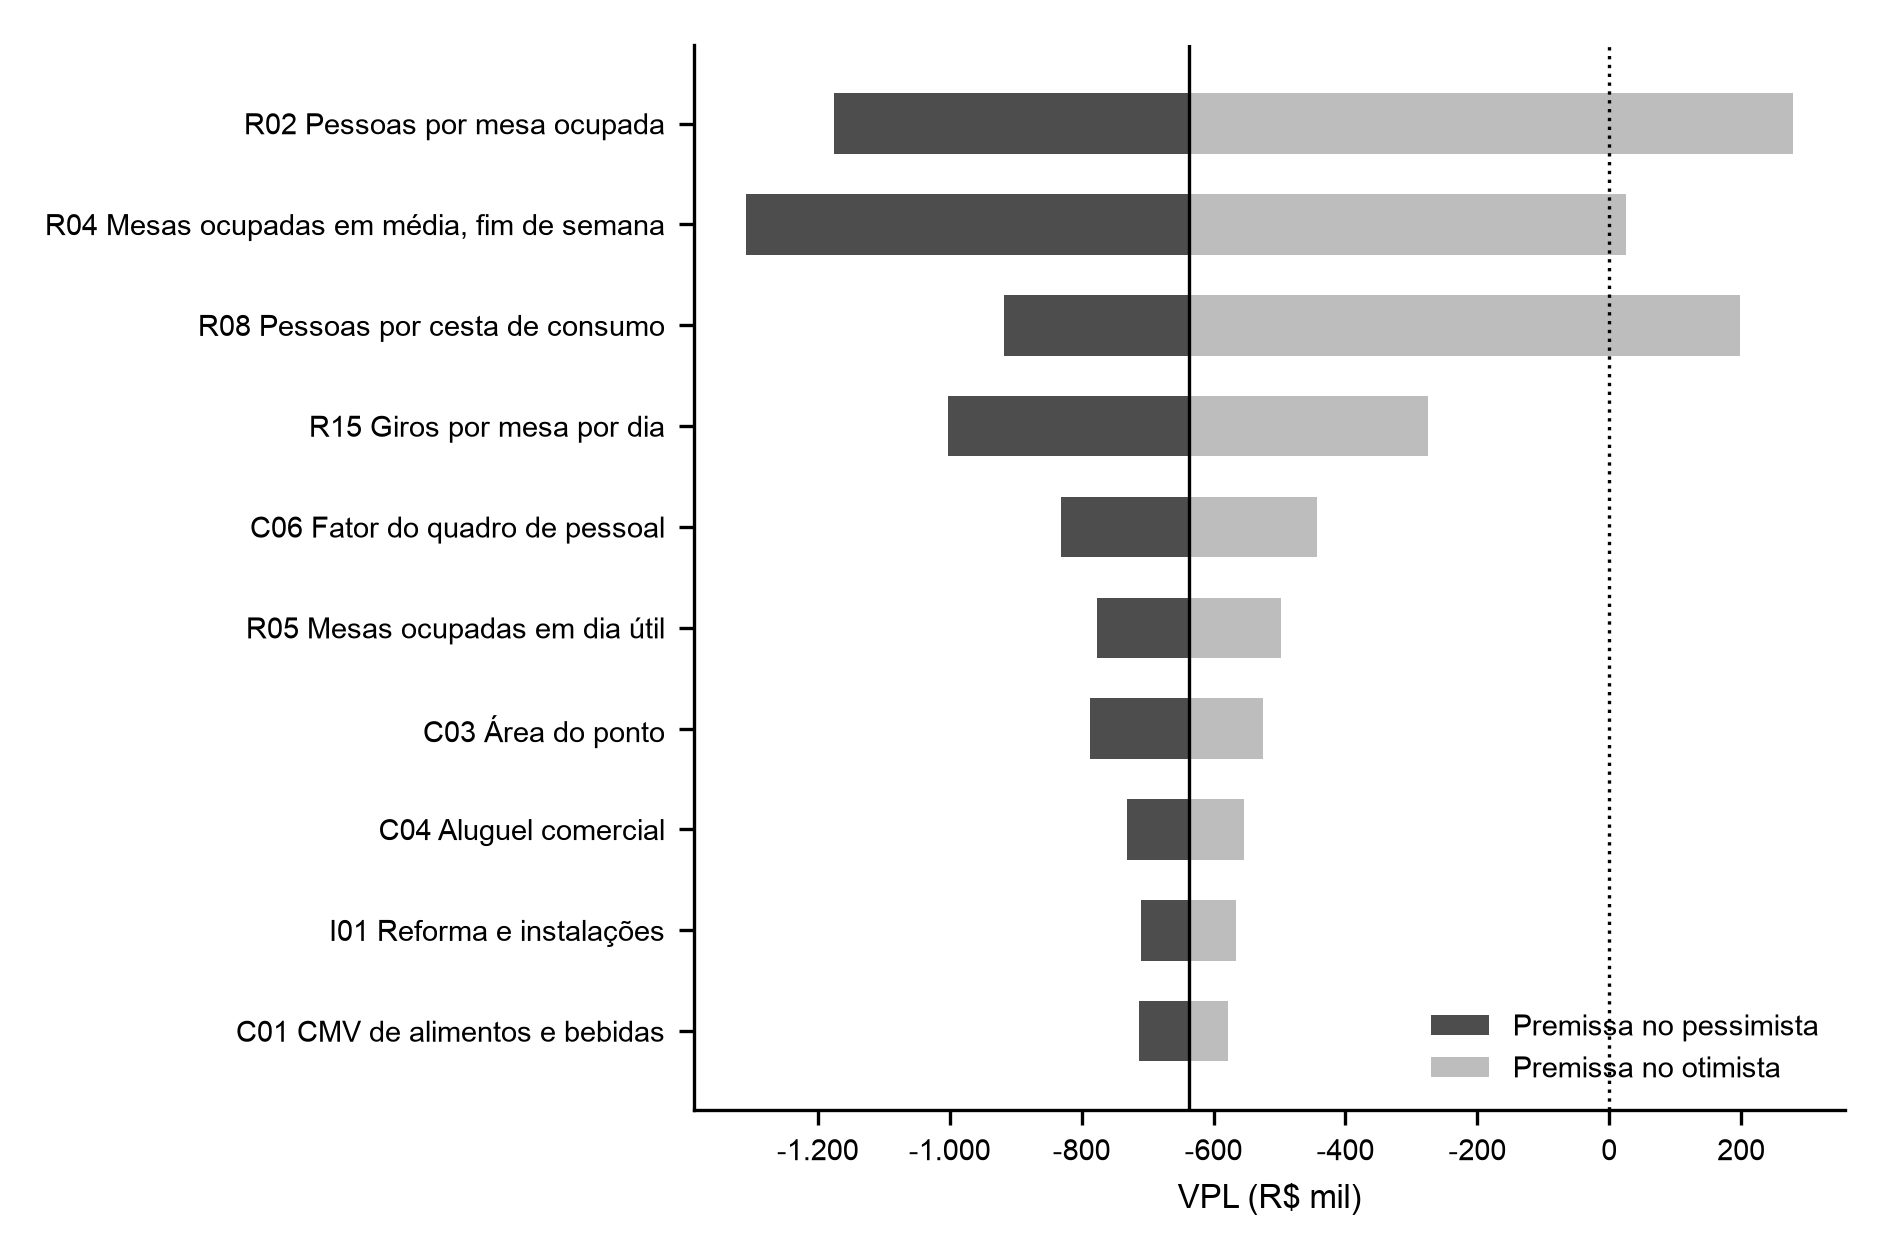
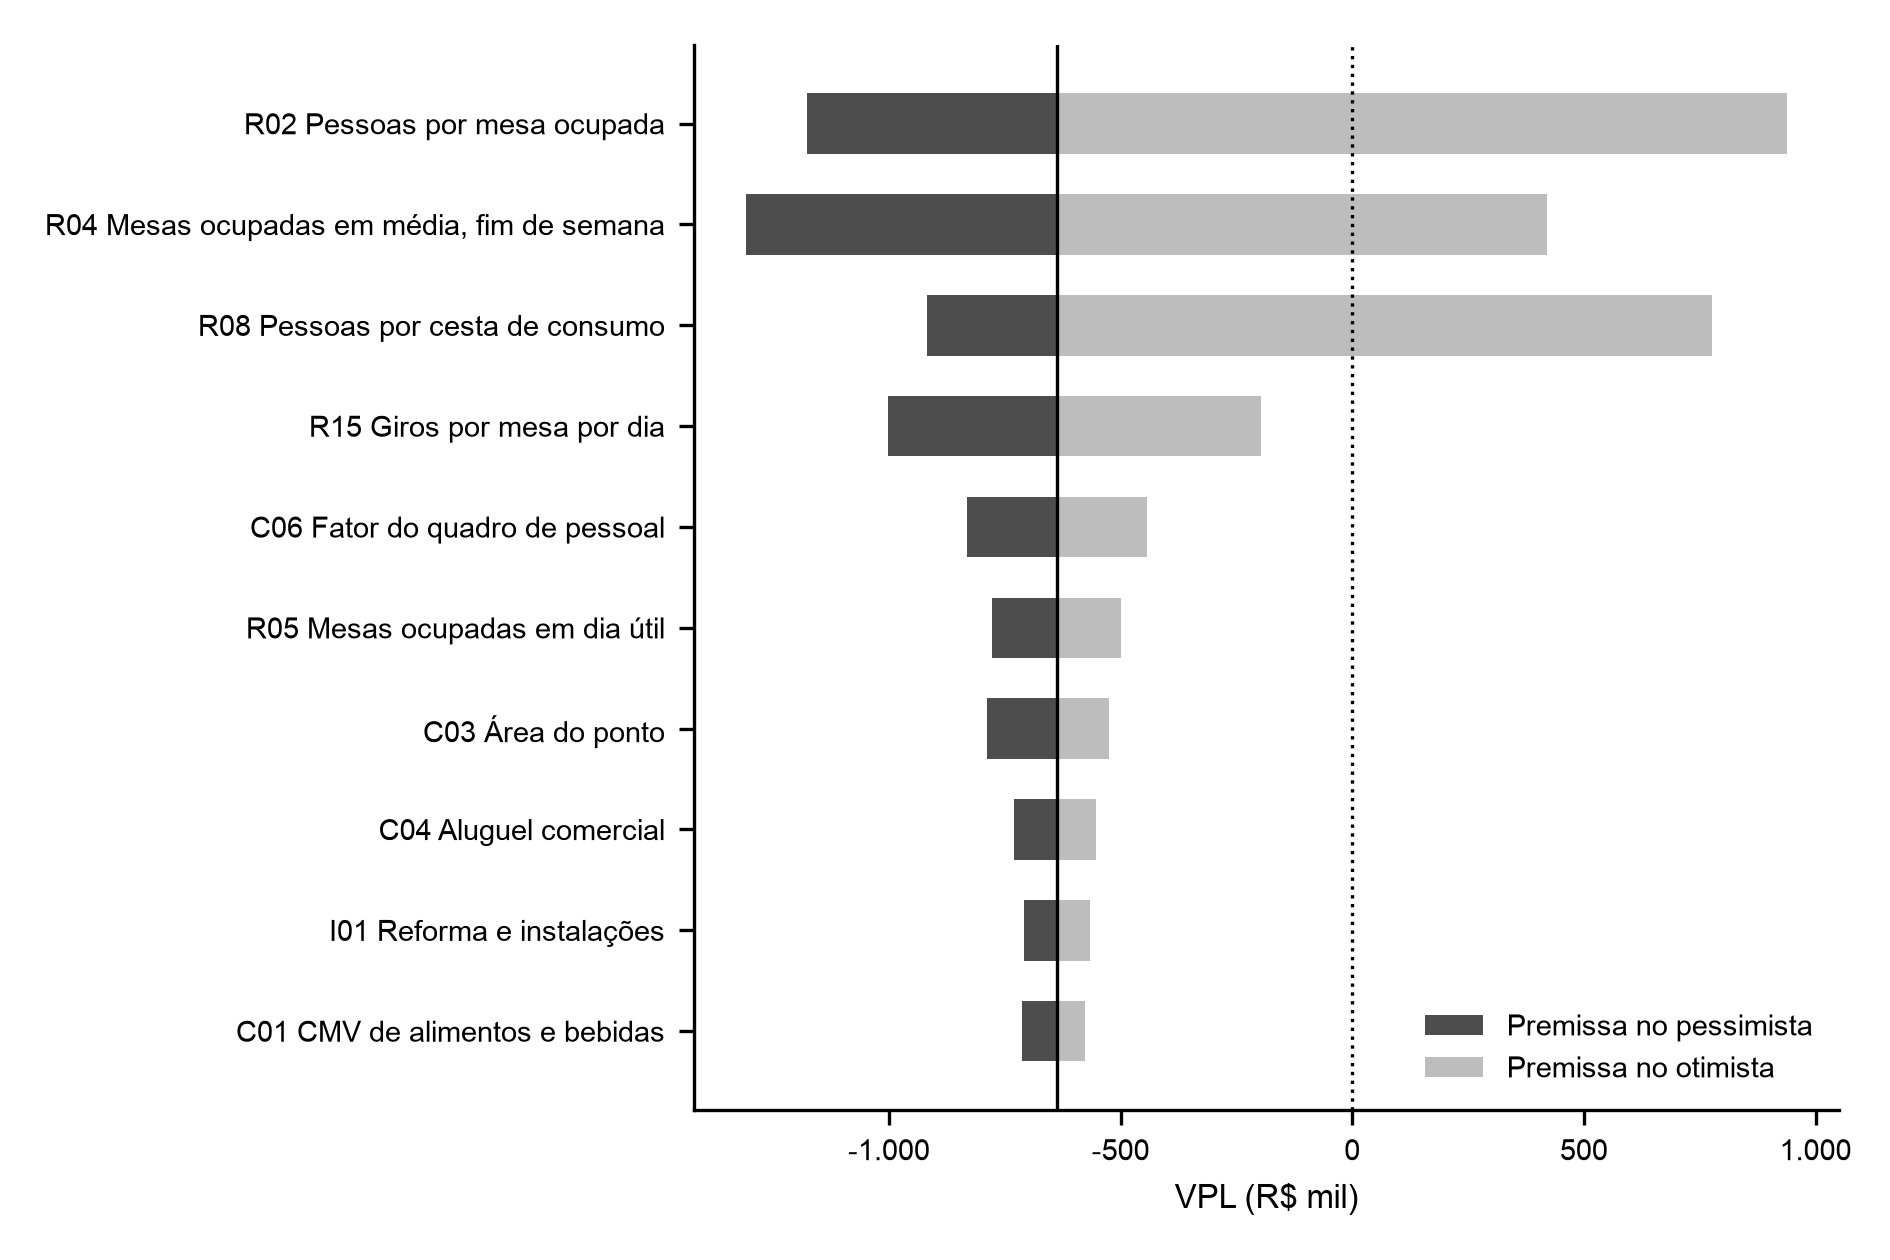
Cap. 9: valor residual no modelo financeiro, com VPL com e sem na sensibilidade
Premissa M03: perpetuidade sem crescimento do fluxo do ano 5 (EBITDA menos
reinvestimento igual à depreciação), com piso zero. O provável não muda
(perpetuidade negativa); P(VPL > 0) sobe de 25,2% para 31,9%. Registradas a
decisão de não fazer novas visitas presenciais e as fontes dos bairros da
pesquisa de pontos.

diff --git a/_src/extras/gerar_modelo_financeiro.py b/_src/extras/gerar_modelo_financeiro.py
@@ -15,8 +15,11 @@ VPL de cada um tem de bater com o do Python (diferença < R$ 1,00); senão o
 script para.
 
 Modelo em preços constantes (out/2026), com TMA real. Mensal nos 60 meses
-(rampa de maturação no ano 1), anual na DRE e no fluxo de caixa. Sem valor
-residual: no ano 5 voltam só a caução e o capital de giro.
+(rampa de maturação no ano 1), anual na DRE e no fluxo de caixa. No ano 5
+voltam a caução e o capital de giro e entra o valor residual (M03):
+perpetuidade sem crescimento do EBITDA do ano 5 menos o reinvestimento anual
+(igual à depreciação), à TMA, com piso zero (se a perpetuidade for negativa, o
+negócio fecha). A aba sensibilidade mostra o VPL com e sem o valor residual.
 
 Receita (decisão do autor, 31/10/2026): pessoas = mesas ocupadas × pessoas
 por mesa × giros por mesa por dia × dias abertos; receita por pessoa = taxa de
@@ -69,6 +72,8 @@ FIGURA_MC = ROOT / "textos" / "capitulos" / "figuras" / "9_monte_carlo.png"
 SOFFICE = "/Applications/LibreOffice.app/Contents/MacOS/soffice"
 
 MESES = 60
+# vida útil (anos) dos itens depreciáveis, a mesma da aba investimento
+VIDA_UTIL = dict(reforma=5, mobiliario=10, cozinha=10, ti=5, acervo=5, preop=5)
 ANOS = 5
 CENARIOS = ("pessimista", "provavel", "otimista")
 N_SIMULACOES = 10_000
@@ -260,6 +265,8 @@ def premissas(f) -> list[dict]:
           "BCB: Selic meta e Focus (B4); prêmio de risco do autor", "N2 + N6",
           f"Juro real de {f['juro_real']:.1f}% (Selic {f['selic']:.1f}% e IPCA esperado de {f['ipca_2027']:.1f}% para 2027) mais 3 a 9 p.p. de risco de pequeno negócio."),
         R("M02", "Semanas por mês", "semanas", 52 / 12, 52 / 12, 52 / 12, "Calendário", "N1", "52 semanas ÷ 12 meses."),
+        R("M03", "Valor residual no ano 5", "1 com, 0 sem", 1, 1, 1, "Assaf Neto (2014), perpetuidade sem crescimento", "N1",
+          "Fluxo do ano 5 (EBITDA menos reinvestimento igual à depreciação) ÷ TMA, com piso zero; sem valor residual na aba sensibilidade."),
     ]
 
 
@@ -299,8 +306,10 @@ def calcula(f, v: dict, folha: float) -> dict:
                acervo=v["I05"], preop=v["I06"], caucao=v["I07"] * aluguel, giro=v["I08"] * fixos)
     total_inv = sum(inv.values())
     ano = m.groupby("ano")[["bruta", "simples", "cmv", "cartao", "fixos", "ebitda"]].sum()
+    deprec = sum(inv[k] / VIDA_UTIL[k] for k in VIDA_UTIL)
+    residual = v["M03"] * max(0.0, (ano.loc[ANOS, "ebitda"] - deprec) / v["M01"])
     fc = [-total_inv] + list(ano["ebitda"])
-    fc[-1] += inv["caucao"] + inv["giro"]
+    fc[-1] += inv["caucao"] + inv["giro"] + residual
     desc = [x / (1 + v["M01"]) ** t for t, x in enumerate(fc)]
     vpl = sum(desc)
     acum, payback = 0.0, float("nan")
@@ -310,7 +319,7 @@ def calcula(f, v: dict, folha: float) -> dict:
             break
         acum += d
     mc_pct = 1 - (ano.loc[ANOS, ["simples", "cmv", "cartao"]].sum() / ano.loc[ANOS, "bruta"])
-    return dict(vpl=vpl, tir=tir(fc), payback=payback, investimento=total_inv, inv=inv, fc=fc,
+    return dict(vpl=vpl, tir=tir(fc), payback=payback, investimento=total_inv, inv=inv, fc=fc, residual=residual,
                 receita_madura=m["bruta"].iloc[-1], pessoas_madura=m["pessoas"].iloc[-1],
                 fixos=fixos, ebitda5=ano.loc[ANOS, "ebitda"], mc_pct=mc_pct,
                 receita_equilibrio=fixos / mc_pct, alug_madura=m["alug"].iloc[-1], ano=ano)
@@ -424,7 +433,7 @@ def nota(ws, linha, texto, ncol):
     ws.row_dimensions[linha].height = 15 * max(1, len(texto) // 110 + 1)
 
 
-def planilha(f, prem, quadro, resultados, tornado, rupt, mc):
+def planilha(f, prem, quadro, resultados, tornado, rupt, mc, sem_residual):
     wb = openpyxl.Workbook()
     # ---- premissas
     ws = wb.active
@@ -615,7 +624,7 @@ def planilha(f, prem, quadro, resultados, tornado, rupt, mc):
     estilo(ws, 2, rt, 4, MOEDA)
     for r in range(3, rt):
         ws.cell(r, 3).number_format = "0"
-    nota(ws, rt + 2, "Fonte: aba premissas (I01 a I08, C03). Reforma depreciada em 5 anos (prazo típico de locação); caução e capital de giro voltam no ano 5. Sem valor residual dos demais itens.", 4)
+    nota(ws, rt + 2, "Fonte: aba premissas (I01 a I08, C03). Reforma depreciada em 5 anos (prazo típico de locação); caução e capital de giro voltam no ano 5. Valor residual na aba fluxo_caixa (M03).", 4)
     ws.column_dimensions["A"].width = 30
     for col in "BCD":
         ws.column_dimensions[col].width = 18
@@ -664,7 +673,7 @@ def planilha(f, prem, quadro, resultados, tornado, rupt, mc):
     ws["A3"] = "Ano (número)"
     rot = {4: "Investimento", 5: "EBITDA", 6: "Retorno da caução e do capital de giro", 7: "Fluxo líquido",
            8: "Fator de desconto", 9: "Fluxo descontado", 10: "Fluxo descontado acumulado",
-           11: "Payback descontado (auxiliar)"}
+           11: "Payback descontado (auxiliar)", 12: "Valor residual (perpetuidade sem crescimento, piso zero)"}
     for r, n in rot.items():
         ws.cell(r, 1, n)
     for t in range(ANOS + 1):
@@ -672,14 +681,16 @@ def planilha(f, prem, quadro, resultados, tornado, rupt, mc):
         ws[f"{c}4"] = "=-investimento!$B$11" if t == 0 else 0
         ws[f"{c}5"] = 0 if t == 0 else f"=dre!{get_column_letter(1 + t)}11"
         ws[f"{c}6"] = "=investimento!$B$9+investimento!$B$10" if t == ANOS else 0
-        ws[f"{c}7"] = f"=SUM({c}4:{c}6)"
+        ws[f"{c}12"] = (f"=P_M03*MAX(0,(dre!{get_column_letter(1 + t)}11-investimento!$D$11)/P_M01)"
+                        if t == ANOS else 0)
+        ws[f"{c}7"] = f"=SUM({c}4:{c}6)+{c}12"
         ws[f"{c}8"] = f"=1/(1+P_M01)^{c}3"
         ws[f"{c}9"] = f"={c}7*{c}8"
         ws[f"{c}10"] = f"={c}9" if t == 0 else f"={get_column_letter(1 + t)}10+{c}9"
         if t:
             p = get_column_letter(1 + t)
             ws[f"{c}11"] = f'=IF(AND({p}10<0,{c}10>=0),{p}3+(-{p}10)/{c}9,"")'
-    estilo(ws, 2, 11, 2 + ANOS, MOEDA)
+    estilo(ws, 2, 12, 2 + ANOS, MOEDA)
     for t in range(ANOS + 1):
         c = get_column_letter(2 + t)
         ws[f"{c}3"].number_format = "0"
@@ -785,6 +796,17 @@ def planilha(f, prem, quadro, resultados, tornado, rupt, mc):
         fmt = PCT if rp["unidade"].startswith("%") else (MOEDA if rp["unidade"].startswith("R$") else DEC2)
         for c in (3, 4, 5, 6):
             ws.cell(r, c).number_format = fmt
+    r2 = ultr + 3
+    ws.cell(r2 - 1, 1, "VPL com e sem valor residual (M03)").font = NEGRITO
+    for j, h in enumerate(["Cenário", "Valor residual no ano 5 (R$)", "VPL com (R$)", "VPL sem (R$)", "Diferença (R$)"], 1):
+        ws.cell(r2, j, h).font = NEGRITO
+    for i, cen in enumerate(CENARIOS):
+        com, sem = resultados[cen], sem_residual[cen]
+        for j, x in enumerate((("pessimista", "provável", "otimista")[i], com["residual"], com["vpl"], sem["vpl"], com["vpl"] - sem["vpl"]), 1):
+            ws.cell(r2 + 1 + i, j, x)
+            if j > 1:
+                ws.cell(r2 + 1 + i, j).number_format = MOEDA
+    ultr = r2 + len(CENARIOS)
     nota(ws, ultr + 2, "Fonte: elaboração própria. Valores gravados pelo script _src/extras/gerar_modelo_financeiro.py, que recalcula o modelo em Python e confere o VPL com esta planilha nos três cenários; mudar a aba premissas não atualiza esta aba (rodar o script de novo).", 7)
     for col, w in zip("ABCDEFG", (12, 44, 18, 18, 18, 18, 18)):
         ws.column_dimensions[col].width = w
@@ -942,7 +964,8 @@ def main():
     rupt = [dict(por_id[t["id"]], ruptura=ruptura(f, prem, folha, t["id"])) for t in tornado[:5]]
     mc = monte_carlo(f, prem, folha)
 
-    wb = planilha(f, prem, quadro, resultados, tornado, rupt, mc)
+    sem_residual = {c: calcula(f, dict(valores(prem, c), M03=0), folha) for c in CENARIOS}
+    wb = planilha(f, prem, quadro, resultados, tornado, rupt, mc, sem_residual)
     SAIDA.parent.mkdir(parents=True, exist_ok=True)
     wb.save(SAIDA)
     for i, cen in enumerate(CENARIOS, 1):
@@ -964,7 +987,8 @@ def main():
         r = resultados[cen]
         print(f"\n[{cen}] invest {r['investimento']:,.0f} | receita madura {r['receita_madura']:,.0f}/mês | pessoas {r['pessoas_madura']:,.0f}/mês"
               f" | fixos {r['fixos']:,.0f} | MC {r['mc_pct']:.1%} | equilíbrio {r['receita_equilibrio']:,.0f} | EBITDA5 {r['ebitda5']:,.0f}"
-              f" | VPL {r['vpl']:,.0f} | TIR {r['tir']:.1%} | payback {r['payback']:.2f}")
+              f" | VPL {r['vpl']:,.0f} (sem valor residual {sem_residual[cen]['vpl']:,.0f}; residual {r['residual']:,.0f})"
+              f" | TIR {r['tir']:.1%} | payback {r['payback']:.2f}")
         print("   inv:", {k: round(x) for k, x in r["inv"].items()})
         print("   anos:", r["ano"].round(0).to_dict("index"))
     print("\nTornado:")

diff --git a/docs/pendencias.md b/docs/pendencias.md
@@ -11,7 +11,9 @@ Tudo o que está em aberto, num só lugar. Quando um item for resolvido, ele sai
 - **Cap. 2 reordenado no TMin v9 (02/11/2026).** Seções na ordem nova, títulos renumerados e linhas do Quadro 1 na mesma ordem; três parágrafos novos com "*" (abertura do 2.1, definição de *competitive socialising* no 2.2 e ligação no começo do 2.4.1). O `_md/2_referencial_teorico.md` segue na ordem antiga até o autor escolher as versões.
 - **Voz passiva no `2_ref-teorico.md` (01/11/2026).** A instrução do cap. 2 pede a passiva sintética, que o `1b_escrita.md` (P5.5) veta; alinhar a instrução.
 - **Referências que faltam na lista única (31/10/2026; parcial em 02/11/2026).** Leis, LCs, resoluções, NBR 9050, CONCLA e Receita Federal entraram no TMin v9 com "*" e [AV]: conferir data, ementa e publicação de cada uma no Planalto e nos diários oficiais e tirar o [AV]. Falta a entrada do Novo CAGED. Pine e Gilmore (1998) e Oldenburg (1989), citados por apud, não precisam de entrada (NBR 10520).
-- **Recomendações do financeiro (02/11/2026).** Decidir quais mudanças entram no modelo: equipe do cap. 7, giro do fim de semana limitado a 9,3 h, ocupação de pico aplicada ao dia inteiro, gasto declarado no Google Maps como evidência do consumo por pessoa, taxa de entrada (média do B1 × São Jogue), área do ponto e valor residual. Implementar as recomendações 3, 4 e 5 da revisão só depois disso.
+- **Recomendações do financeiro (02/11/2026).** Decidir quais mudanças entram no modelo: equipe do cap. 7, giro do fim de semana limitado a 9,3 h, ocupação de pico aplicada ao dia inteiro, gasto declarado no Google Maps como evidência do consumo por pessoa (gasto ≈ 1,2 cesta ampliada; cerca de 0,8 pessoa por cesta, 16 casas), taxa de entrada (opções e VPLs calculados em 02/11: média do B1, São Jogue, Tabela 6.1, ajustada pelo salário médio da cidade no CEMPRE 2024 e pelo salário das ocupações no CAGED) e área do ponto (fotos da Bela Vista indicam salão de 75 a 95 m² e loja de 110 a 150 m²; medir o contorno no Google Maps). Implementar as recomendações 3, 4 e 5 da revisão só depois disso. Com o valor residual, quando a perpetuidade é positiva, ela responde pela maior parte do VPL: declarar isso no texto.
+- **Texto sem visitas novas (02/11/2026).** Os 10.5 e 11.4 propõem visita em dia útil e evento piloto como validação antes do investimento; o autor não fará novas visitas. Reescrever as validações com o que dá para obter sem ir a campo (Google Maps "horários de pico", gasto declarado, cotações online).
+- **Bairros da pesquisa de pontos (02/11/2026).** Pituba/Itaigara, Barra/Graça e Rio Vermelho. Referências: LOUOS (Lei 9.148/2016), art. 24 (Barra e Pituba como ZCMu-2) e art. 27 (corredores da Rua da Graça, Av. Oceânica, Estrada da Paciência, Av. Paulo VI e Alameda das Espatódeas como centralidade linear); Santos (2013, UFBA) para o Rio Vermelho [AV]. A matriz do 6.4 não tem Rio Vermelho nem Itaigara entre os 10 candidatos (filtro de 80% de apartamentos e 3.500 pessoas de 20 a 39 anos): conciliar.
 - **TMax dos caps. 2 e 3 sem as mudanças da TMin v5 (31/10/2026).** A abertura do autor, a renumeração e as frases de ligação estão só no TMin; decidir se o TMax recebe as mesmas mudanças.
 - **Páginas das obras sem PDF útil (31/10/2026).** Faltam páginas de Bruni (2018), Damodaran (2010) e Pine e Gilmore (1999), sem PDF; Bruni e Famá (2019), cujo PDF é só o arquivo de transparências de 2002; e Dornelas, cujo PDF digitalizado não mostra a edição (p. 6–10 valem para ele, conferir se é a 3. ed. de 2021). Porter voltou à edição brasileira (Elsevier, 2004): falta a página, conferida no livro (cap. 1, as cinco forças). O `.docx` do TMax não foi regerado com as páginas. Em 01/11: Gilovich, Kumar e Jampol (2015), Cohen (1960) e Wilson (1927) também sem página (artigos fora do Drive); Groves segue pela seção 2.3, porque o PDF convertido do EPUB não tem a paginação impressa; o PDF do Kotler (Drive, 19 MB) não desceu para `bibliografia/` (cópia com tempo esgotado), baixar à mão.
 

diff --git a/AGORA.md b/AGORA.md
@@ -4,6 +4,7 @@ Atualizado em 02/11/2026. Semana 8 do cronograma (31/10 a 06/11). Próxima entre
 
 ## Fazendo agora
 
+- **Financeiro (02/11, 05h):** valor residual no modelo (M03; provável inalterado, P(VPL > 0) de 31,9%); taxas de entrada alternativas, gasto declarado ÷ cesta e área da Bela Vista calculados; sem novas visitas presenciais (decisão do autor). Falta escolher o pacote de mudanças (pendências) e levar aos caps. 4, 9, 10 e 11.
 - **Revisão do TMin v9 (02/11, 04h):** recomendações 1, 6, 9 e 10 aplicadas no `.docx` (pares originais apagados, 26 referências novas com [AV], "seção N.N", erros de redação); 3, 4 e 5 (números, alertas e ocupação de pico) esperam a decisão sobre o financeiro (pendências); 2, 7 e 8 ficam para depois. Os `.md` de `_md/` ainda não têm essas mudanças.
 - **Cap. 2 reordenado (02/11):** contexto (2.1 experiência, 2.2 estabelecimentos, 2.3 público) → 2.4 estratégia e gestão do serviço → 2.5 viabilidade, no TMin v9; três parágrafos novos com "*". Depois dos caps. 2 e 3, reescrever o início do cap. 1 (pendências).
 - **Comentários do TMin v9 (01/11, 23h):** 8 dos 9 comentários e as remissões do cap. 2 respondidos em 18 parágrafos com "*", abaixo dos originais; a regra do cap. 2 mudou (sem remissão a capítulo no texto). Falta o autor escolher a versão de cada um e conferir Figueiredo para o comentário 7.

diff --git a/docs/registro-de-alteracoes.md b/docs/registro-de-alteracoes.md
@@ -2115,3 +2115,10 @@ A busca por estaciona, vaga, valet, manobrista, parking, flanelinha, zona azul e
 
 A edição do autor no §6 do dicionário continua fora do commit.
 **Justificativa**: pedido do autor, para alinhar as duas grades antes da comparação da recodificação cega.
+
+### 05:20
+**Objeto**: `_src/extras/gerar_modelo_financeiro.py`; `textos/capitulos/9_plano_financeiro_modelo.xlsx`; `textos/capitulos/figuras/9_tornado.png` e `9_monte_carlo.png`
+**Antes**: sem valor residual; no ano 5 voltavam só a caução e o capital de giro. P(VPL > 0) de 25,2% no Monte Carlo; VPL otimista de R$ 6,64 milhões.
+**Depois**: premissa M03 (valor residual no ano 5): perpetuidade sem crescimento do EBITDA do ano 5 menos o reinvestimento anual igual à depreciação, à TMA, com piso zero; linha 12 da aba fluxo_caixa e bloco "VPL com e sem valor residual" na aba sensibilidade. Provável e pessimista sem mudança (perpetuidade negativa, valor residual zero: VPL de -R$ 638 mil e -R$ 2,88 milhões); otimista de R$ 15,98 milhões (R$ 6,64 milhões sem); P(VPL > 0) de 31,9%. VPL da planilha igual ao do Python nos três cenários.
+**Justificativa**: pedido do autor (recomendação 10 do financeiro, 02/11/2026): declarar o valor residual e mostrar a sensibilidade com e sem.
+

diff --git a/docs/decisoes.md b/docs/decisoes.md
@@ -4,6 +4,8 @@ Uma linha por decisão já tomada sobre o TCC, da mais recente para a mais antig
 
 | Data | Decisão | Detalhe em |
 |---|---|---|
+| 02/11/2026 | Sem novas visitas presenciais: a validação das premissas de dia útil, fluxo e consumo usa só dados secundários e já coletados (B1, B2, B3, B4) | pedido do autor; `docs/pendencias.md` |
+| 02/11/2026 | Modelo financeiro com valor residual no ano 5 (perpetuidade sem crescimento, reinvestimento igual à depreciação, piso zero), declarado e mostrado com e sem na aba sensibilidade | `docs/registro-de-alteracoes.md` (02/11/2026, 05:20) |
 | 02/11/2026 | Tema "estacionamento" separado de "localização e acesso" nas duas codificações do B2 (vaga, valet, preço, flanelinha, convênio) | `textos/instrumentos/dicionario_temas_B2.md`, §2 |
 | 02/11/2026 | Remissão a subdivisão escrita "seção N.N" (e "cap. N" só para capítulo inteiro); legislação nas Referências sob a jurisdição (BRASIL, BAHIA, SALVADOR), e a consulta ao CNPJ citada como (BRASIL, 2026) | `docs/registro-de-alteracoes.md` (02/11/2026, 04:33) |
 | 02/11/2026 | Comentário do B2 cujo texto termina em emoji antes do "…" do Google, com frase de sentido completo, conta como inteiro (Status "Completo") | `docs/pendencias.md`, item 14 |

diff --git a/docs/melhorias-texto.md b/docs/melhorias-texto.md
@@ -78,6 +78,8 @@ Formato de um item: **ID — título curto.** Onde (cap. e seção). O que diver
 
 **D40 — Ocupação de pico aplicada ao dia inteiro (02/11/2026).** 3.6 trata a contagem como limite superior, mas o 9.2 usa as 4,37 mesas ocupadas (noites de sexta e sábado, cerca de 2,7 h por visita) como provável para o dia inteiro, multiplicadas por 4,56 giros. O giro otimista (5,51) supõe 10 h abertas; o fim de semana tem 9,3 h (9.8), com teto de 5,14 giros, abaixo da ruptura (5,55). Sugestão: ocupação por faixa de horário e giro do fim de semana pelo horário do fim de semana.
 
+**D41 — Cap. 9 sem o valor residual do modelo (02/11/2026).** O 9.5 diz "sem valor residual dos demais ativos" e o 9.7.2 e o 4.6 dão P(VPL > 0) de 25,2% e 35,4%; o modelo passou a ter valor residual (M03), com P(VPL > 0) de 31,9% no quadro de 12 e VPL otimista de R$ 15,98 milhões. Sugestão: atualizar os caps. 4, 9, 10 e 11 junto com o pacote de mudanças do financeiro.
+
 ## Aceitável
 
 **D37 — Erros de digitação no cap. 1 (02/11/2026).** §2 da introdução: "São Paul" (São Paulo).
